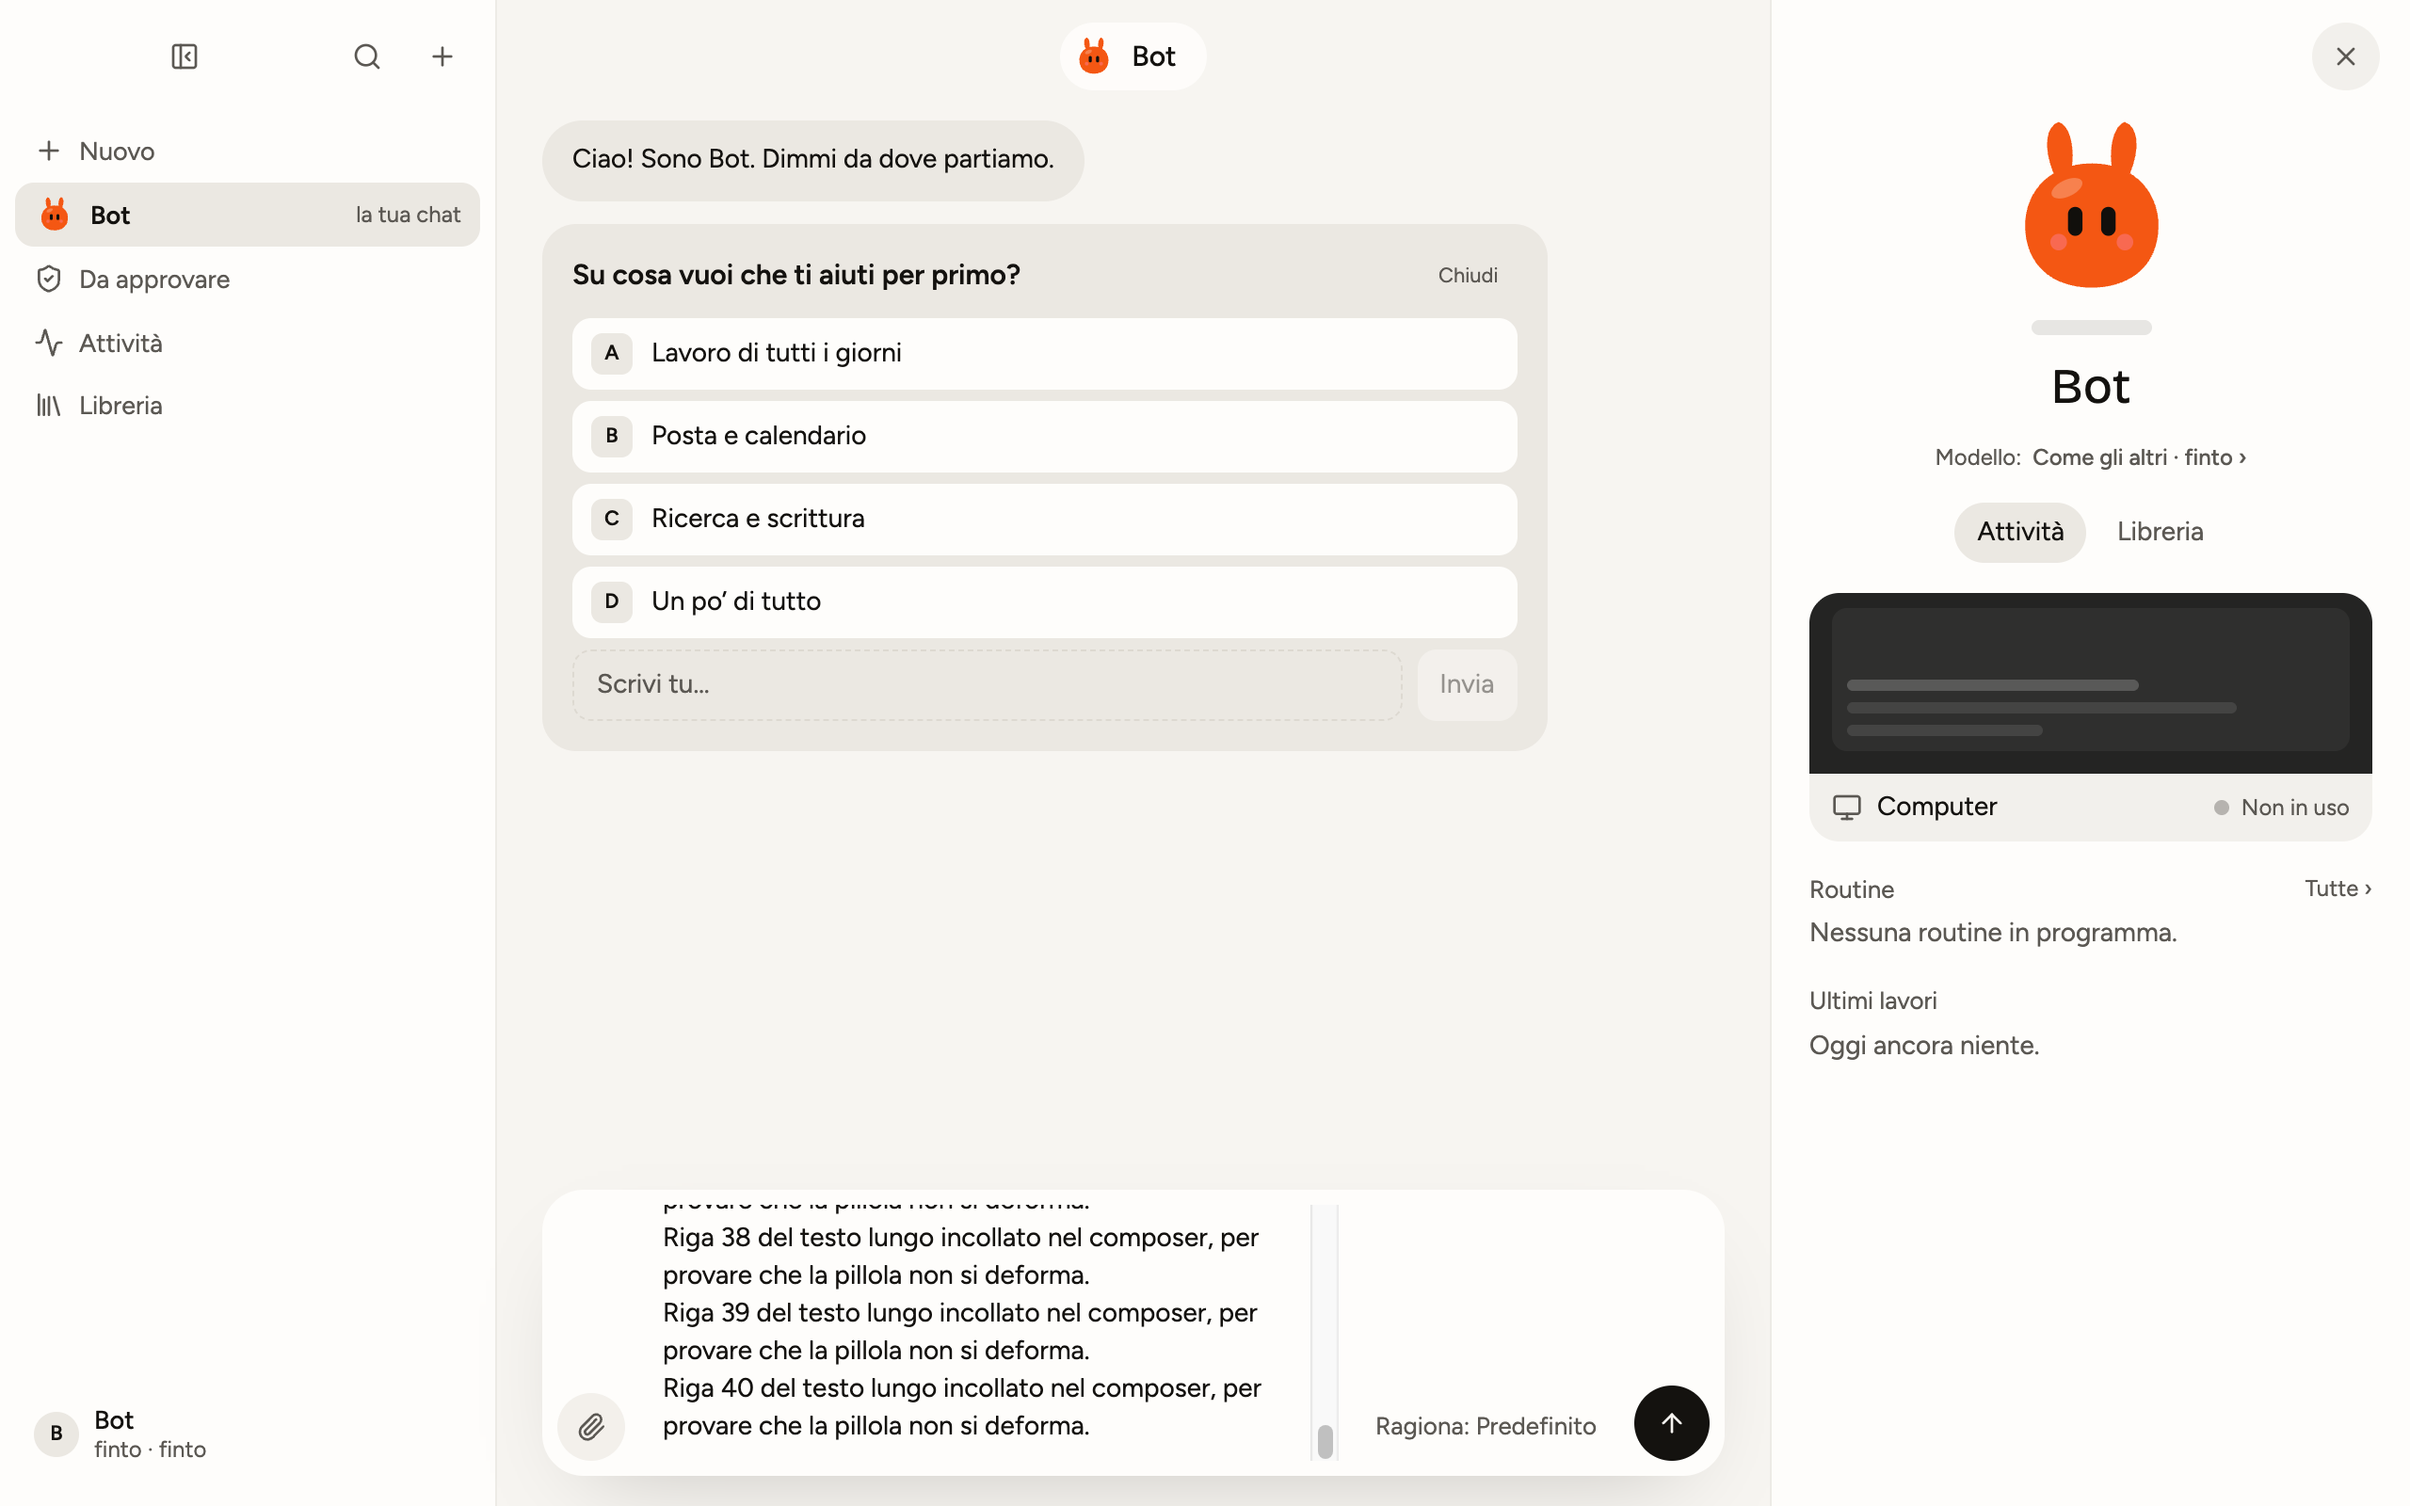
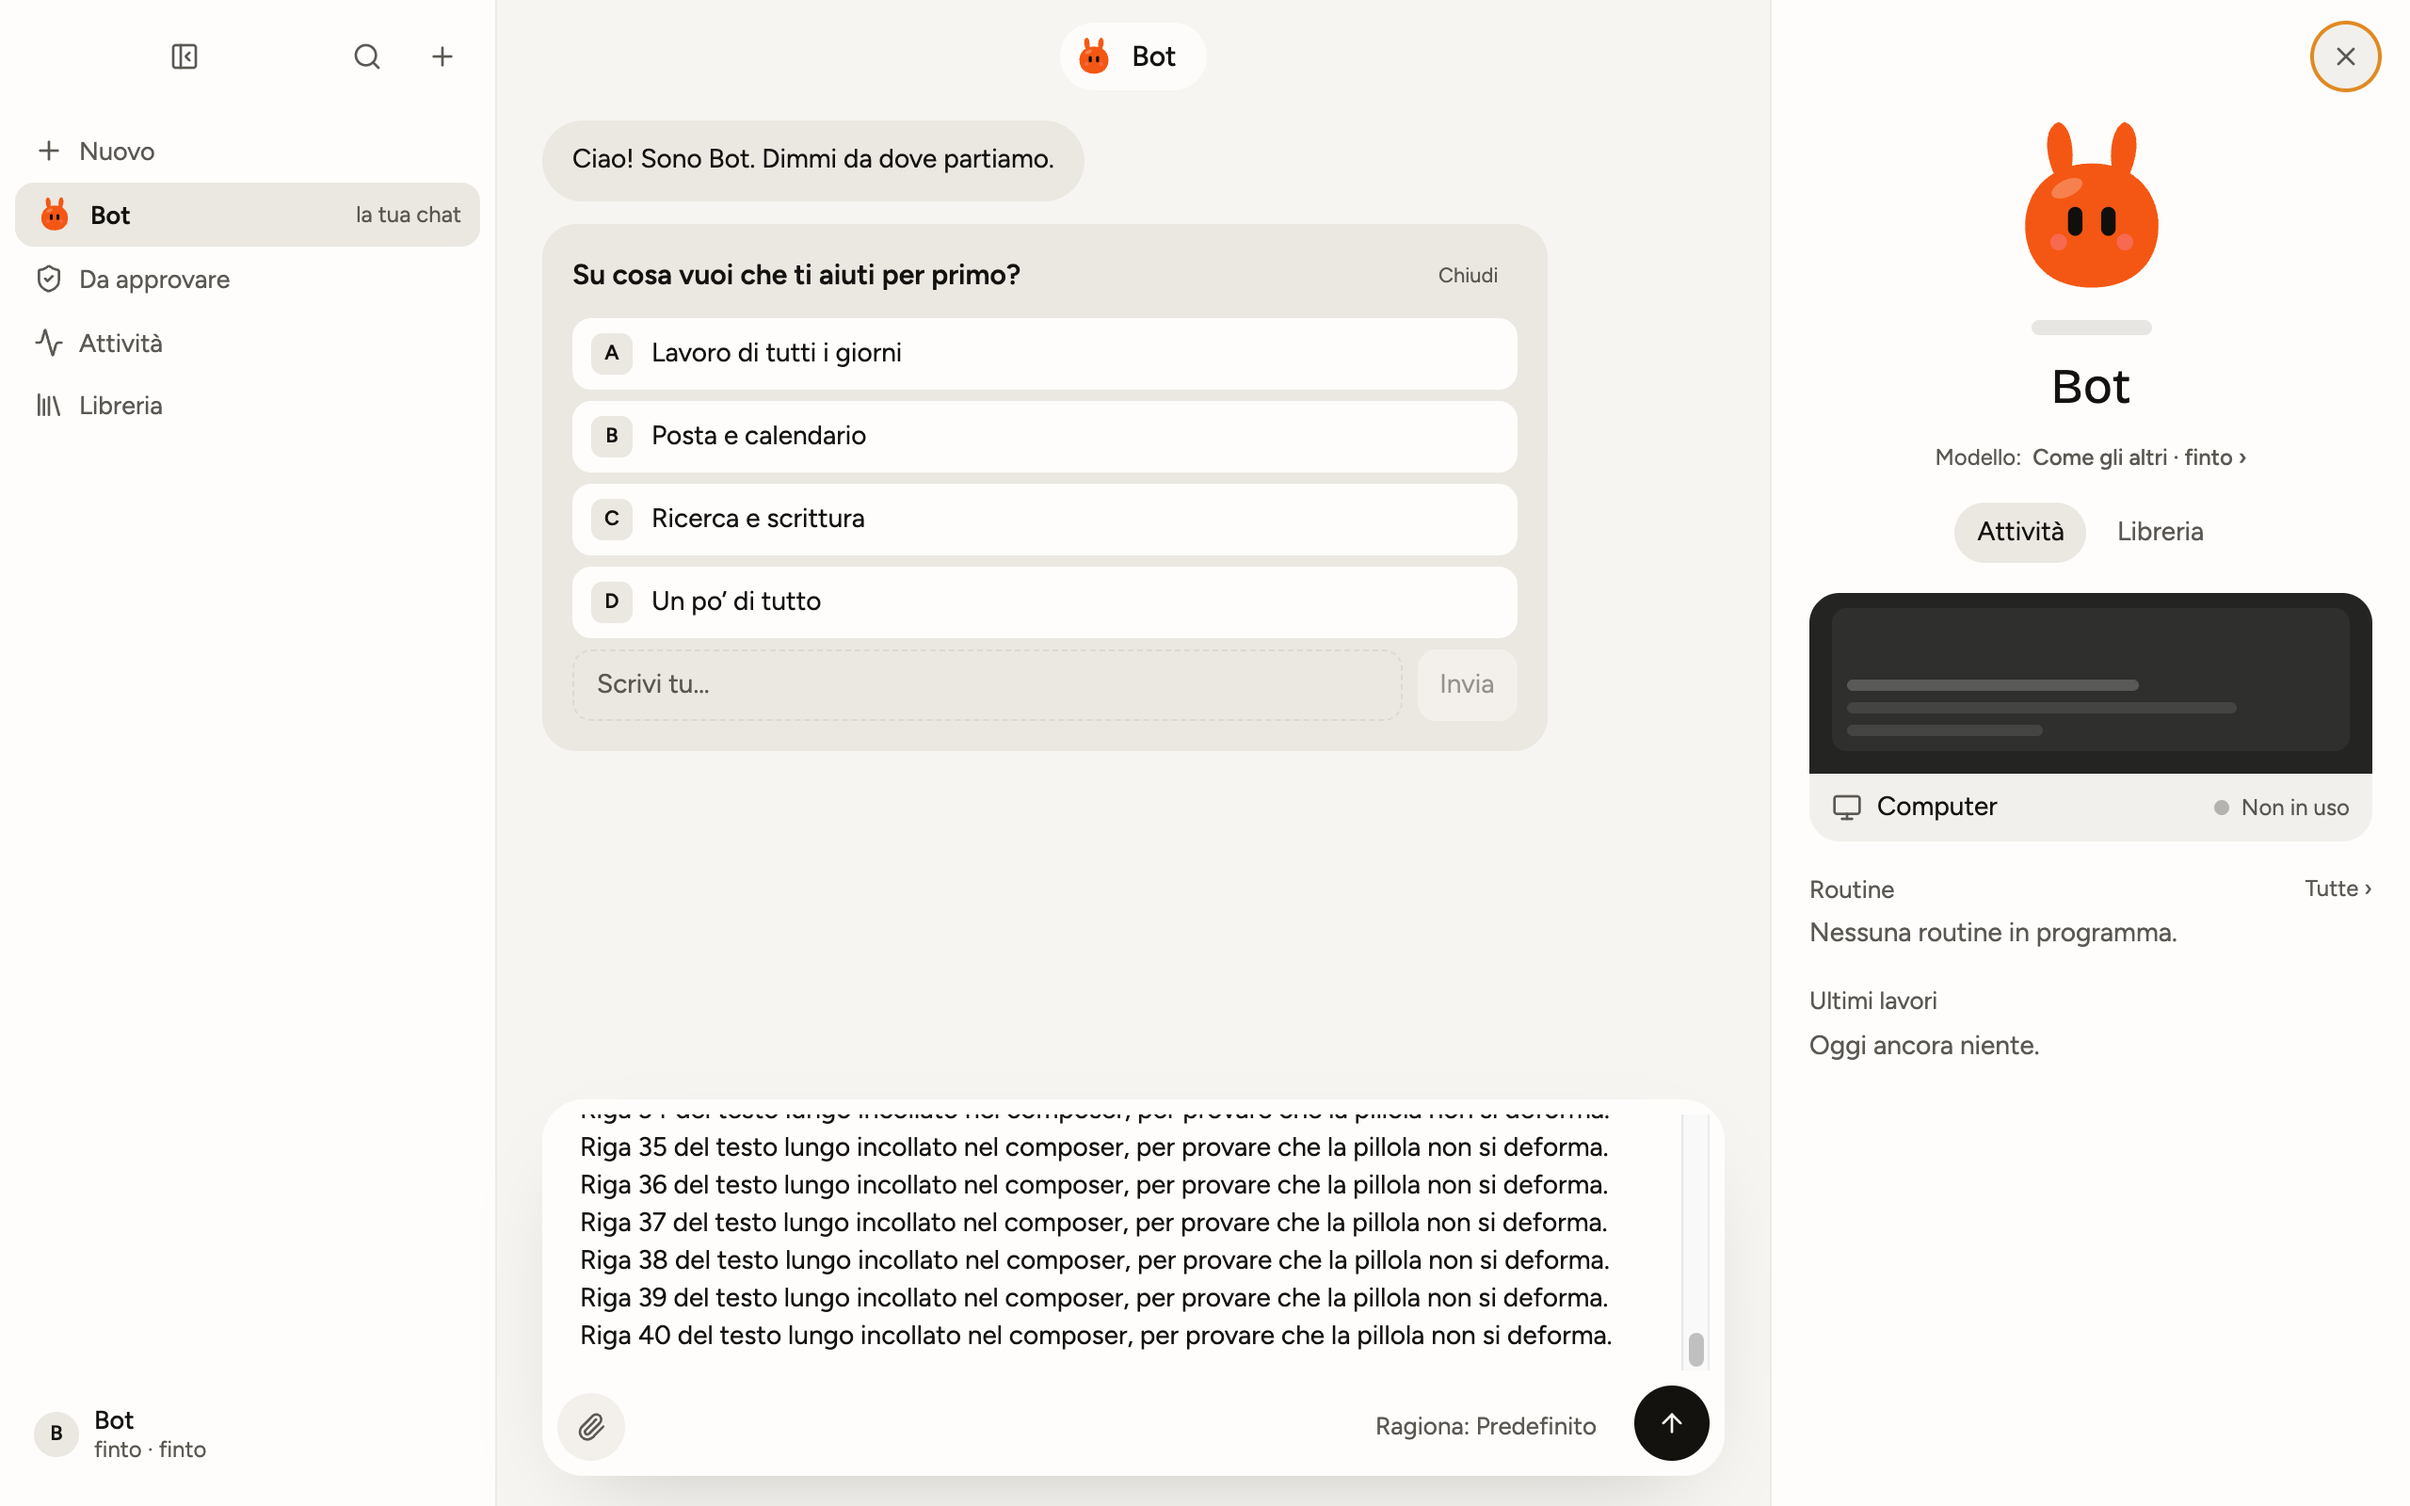
Composer a più righe: testo a tutta larghezza, bottoni sotto
Da due righe in su il campo va sopra a tutta larghezza e graffetta,
Ragiona e Invia scendono in una riga sotto (come ChatGPT e Claude):
prima il testo restava in una colonna stretta accanto ai bottoni.
Isteresi (nextComposerMulti) per non fare altalena quando il campo
largo fa stare di nuovo il testo su una riga. Stesso layout nella
chat di squadra. Test del layout e dell'isteresi.

Changed region(s): [[0.25, 0.75, 0.6562, 0.9688], [0.6875, 0.875, 0.7188, 0.9062], [0.5312, 0.9375, 0.5625, 0.9688]]

diff --git a/src/renderer/src/components/Chat.tsx b/src/renderer/src/components/Chat.tsx
@@ -59,7 +59,7 @@ import { narrationStatusLine } from '../../../shared/narration'
 import type { LayoutResult } from '../layout'
 import { THINKING_LABELS } from './ui/ModelPicker'
 // M1 (fase beta12-correzioni): il raggio dinamico del composer
-import { composerFormRadius, composerMultiFromMeasure, CHAT_COMPOSER_SINGLE_ROW_PX } from '../lib/composer'
+import { composerFormRadius, composerMultiFromMeasure, composerLayout, nextComposerMulti, CHAT_COMPOSER_SINGLE_ROW_PX } from '../lib/composer'
 import { DropdownMenu, DropdownMenuContent, DropdownMenuItem, DropdownMenuTrigger } from './ui/dropdown-menu'
 
 /** Il popover dei passaggi: «N passaggi · Xs» e l'elenco ✓/○ (S3.3).
@@ -336,11 +336,16 @@ export function Chat({ layout }: { layout?: LayoutResult }) {
   // diventa un riquadro arrotondato — lo decide la MISURA del textarea
   // (scrollHeight contro l'altezza della riga unica), così il testo lungo
   // che va a capo da solo conta come lo \n esplicito
-  const [multiRow, setMultiRow] = useState(false)
+  // con l'isteresi di nextComposerMulti: il campo a tutta larghezza non deve
+  // riportare indietro il layout appena il testo ci sta su una riga
+  const [multiState, setMultiState] = useState({ multi: false, enteredAt: 0 })
+  const multiRow = multiState.multi
   useEffect(() => {
     const ta = composerRef.current
-    setMultiRow(ta ? composerMultiFromMeasure(ta.scrollHeight, CHAT_COMPOSER_SINGLE_ROW_PX) : false)
+    const measured = ta ? composerMultiFromMeasure(ta.scrollHeight, CHAT_COMPOSER_SINGLE_ROW_PX) : false
+    setMultiState((prev) => nextComposerMulti(prev, text, measured))
   }, [text])
+  const layoutCls = composerLayout(multiRow)
   // fase skill (S7): le skill visibili a QUESTO bot (libreria + plugin) per
   // l'elenco `/` del compositore; il highlight della selezione.
   // K2 (fase skill ritocchi): l'elenco arriva dal RPC skills:invocable — la
@@ -654,7 +659,7 @@ export function Chat({ layout }: { layout?: LayoutResult }) {
           </p>
         )}
         <form
-          className={`mx-auto flex max-w-3xl items-end gap-2 bg-card py-2 pl-2 pr-2 shadow-soft transition-[border-radius] duration-150 ${composerFormRadius(multiRow)}`}
+          className={`mx-auto flex max-w-3xl items-end gap-2 bg-card py-2 pl-2 pr-2 shadow-soft transition-[border-radius] duration-150 ${composerFormRadius(multiRow)} ${layoutCls.form}`}
           onSubmit={(e) => { e.preventDefault(); sendNow() }}
         >
           <button
@@ -678,7 +683,7 @@ export function Chat({ layout }: { layout?: LayoutResult }) {
               Ragiona e Invia; a capo cresce verso l'alto (il form resta items-end) */}
           <textarea
             ref={composerRef}
-            className="max-h-40 min-h-9 min-w-[120px] flex-1 resize-none bg-transparent py-2 pl-3 pr-5 text-sm leading-5 outline-none placeholder:text-muted-foreground"
+            className={`max-h-40 min-h-9 min-w-[120px] flex-1 resize-none bg-transparent py-2 pl-3 pr-5 text-sm leading-5 outline-none placeholder:text-muted-foreground ${layoutCls.field}`}
             placeholder={t`Scrivi a ${agent.name}`}
             rows={Math.min(6, text.split('\n').length)}
             value={text}
@@ -722,7 +727,7 @@ export function Chat({ layout }: { layout?: LayoutResult }) {
               testo vive in aria-label e tooltip; il menu è identico */}
           <DropdownMenu onOpenChange={(open) => { if (open) clampReasonMenuSoon() }}>
             <DropdownMenuTrigger
-              className="grid h-9 shrink-0 place-items-center rounded-full px-3 text-[13px] text-muted-foreground transition hover:bg-muted hover:text-foreground"
+              className={`grid h-9 shrink-0 place-items-center rounded-full px-3 text-[13px] text-muted-foreground transition hover:bg-muted hover:text-foreground ${layoutCls.push}`}
               aria-label={t`Livello di ragionamento`}
               title={reasonLabel}
             >

diff --git a/src/renderer/src/components/TeamChat.tsx b/src/renderer/src/components/TeamChat.tsx
@@ -26,7 +26,7 @@ import { ApprovalsBannerElsewhere } from './ApprovalsBanner'
 // Q6 (fase squadra): la pagina si apre a lato anche dentro la chat di squadra
 import { PageView } from './PageView'
 // M1 (fase beta12-correzioni): il raggio dinamico del composer (come Chat)
-import { composerFormRadius, composerMultiFromMeasure, TEAM_COMPOSER_SINGLE_ROW_PX } from '../lib/composer'
+import { composerFormRadius, composerMultiFromMeasure, composerLayout, nextComposerMulti, TEAM_COMPOSER_SINGLE_ROW_PX } from '../lib/composer'
 
 /** Il testo col le @menzioni rese come pillole nel colore del bot menzionato. */
 function MentionedText({ text, members, agents, effectiveMain }: {
@@ -229,11 +229,14 @@ export function TeamChat() {
   const [text, setText] = useState('')
   // M1 (fase beta12-correzioni): come Chat — da due righe in su la pillola
   // diventa un riquadro arrotondato, deciso dalla misura del textarea
-  const [multiRow, setMultiRow] = useState(false)
+  const [multiState, setMultiState] = useState({ multi: false, enteredAt: 0 })
+  const multiRow = multiState.multi
   useEffect(() => {
     const ta = taRef.current
-    setMultiRow(ta ? composerMultiFromMeasure(ta.scrollHeight, TEAM_COMPOSER_SINGLE_ROW_PX) : false)
+    const measured = ta ? composerMultiFromMeasure(ta.scrollHeight, TEAM_COMPOSER_SINGLE_ROW_PX) : false
+    setMultiState((prev) => nextComposerMulti(prev, text, measured))
   }, [text])
+  const layoutCls = composerLayout(multiRow)
   const [mentionIdx, setMentionIdx] = useState(0)
   const scrollRef = useRef<HTMLDivElement>(null)
   const taRef = useRef<HTMLTextAreaElement>(null)
@@ -431,12 +434,12 @@ export function TeamChat() {
             </div>
           )}
           <form
-            className={`flex items-end gap-2 bg-card py-2 pl-5 pr-2 shadow-soft transition-[border-radius] duration-150 ${composerFormRadius(multiRow)}`}
+            className={`flex items-end gap-2 bg-card py-2 pl-5 pr-2 shadow-soft transition-[border-radius] duration-150 ${composerFormRadius(multiRow)} ${layoutCls.form}`}
             onSubmit={(e) => { e.preventDefault(); sendNow() }}
           >
             <textarea
               ref={taRef}
-              className="max-h-40 min-h-11 min-w-[120px] flex-1 resize-none bg-transparent py-2.5 pr-5 text-sm outline-none placeholder:text-muted-foreground"
+              className={`max-h-40 min-h-11 min-w-[120px] flex-1 resize-none bg-transparent py-2.5 pr-5 text-sm outline-none placeholder:text-muted-foreground ${layoutCls.field}`}
               placeholder={placeholder}
               rows={Math.min(4, text.split('\n').length)}
               value={text}
@@ -457,7 +460,7 @@ export function TeamChat() {
             />
             <button
               type="submit"
-              className="grid size-10 shrink-0 place-items-center rounded-full bg-foreground text-background transition hover:opacity-90 disabled:opacity-40"
+              className={`grid size-10 shrink-0 place-items-center rounded-full bg-foreground text-background transition hover:opacity-90 disabled:opacity-40 ${layoutCls.push}`}
               aria-label={t`Invia`}
               title={t`Invia`}
               disabled={!text.trim()}

diff --git a/src/renderer/src/__tests__/composer-raggio.test.ts b/src/renderer/src/__tests__/composer-raggio.test.ts
@@ -106,3 +106,31 @@ describe('M1: TeamChat.tsx allineato allo stesso comportamento', () => {
     expect(Number(m![1])).toBeLessThanOrEqual(150)
   })
 })
+
+// Passata di design (beta.13): da due righe il campo va a tutta larghezza e i
+// bottoni scendono sotto; l'isteresi evita l'altalena al limite della riga.
+import { nextComposerMulti, composerLayout } from '../lib/composer'
+
+describe('composer a più righe: layout e isteresi', () => {
+  it('a una riga nessuna classe; a più righe campo sopra a tutta larghezza e bottoni sotto', () => {
+    expect(composerLayout(false)).toEqual({ form: '', field: '', push: '' })
+    expect(composerLayout(true)).toEqual({ form: 'flex-wrap', field: 'order-first basis-full', push: 'ml-auto' })
+  })
+  it('entra in «più righe» con la misura o con un a capo, e ricorda la lunghezza', () => {
+    const zero = { multi: false, enteredAt: 0 }
+    expect(nextComposerMulti(zero, 'ciao', false)).toEqual(zero)
+    expect(nextComposerMulti(zero, 'a'.repeat(80), true)).toEqual({ multi: true, enteredAt: 80 })
+    expect(nextComposerMulti(zero, 'riga 1\nriga 2', false).multi).toBe(true)
+  })
+  it('non torna indietro appena il campo largo fa stare il testo su una riga (niente altalena)', () => {
+    const multi = { multi: true, enteredAt: 80 }
+    expect(nextComposerMulti(multi, 'a'.repeat(80), false)).toEqual(multi)
+    expect(nextComposerMulti(multi, 'a'.repeat(75), false)).toEqual(multi)
+  })
+  it('torna a una riga quando il testo si accorcia davvero, o si svuota', () => {
+    const multi = { multi: true, enteredAt: 80 }
+    expect(nextComposerMulti(multi, 'a'.repeat(60), false)).toEqual({ multi: false, enteredAt: 0 })
+    expect(nextComposerMulti(multi, '', false)).toEqual({ multi: false, enteredAt: 0 })
+    expect(nextComposerMulti(multi, 'riga\nriga', false)).toEqual(multi)
+  })
+})

diff --git a/src/renderer/src/lib/composer.ts b/src/renderer/src/lib/composer.ts
@@ -25,3 +25,30 @@ export function composerFormRadius(multiRow: boolean): string {
 export function composerMultiFromMeasure(scrollHeight: number, singleRowHeight: number): boolean {
   return scrollHeight > singleRowHeight + 2
 }
+
+/**
+ * Lo stato «più righe» con ISTERESI: da due righe in su il campo va a tutta
+ * larghezza e i bottoni scendono sotto — e un campo più largo può far stare
+ * di nuovo il testo su una riga. Senza margine si avrebbe un'altalena. Si
+ * torna a una riga solo senza a capo e con il testo sotto il 90% della
+ * lunghezza a cui era diventato «più righe» (o vuoto).
+ */
+export function nextComposerMulti(
+  prev: { multi: boolean; enteredAt: number },
+  text: string,
+  measuredMulti: boolean
+): { multi: boolean; enteredAt: number } {
+  if (!prev.multi) {
+    return measuredMulti || text.includes('\n') ? { multi: true, enteredAt: text.length } : prev
+  }
+  if (text.length === 0) return { multi: false, enteredAt: 0 }
+  if (!text.includes('\n') && !measuredMulti && text.length < prev.enteredAt * 0.9) return { multi: false, enteredAt: 0 }
+  return prev
+}
+
+/** Le classi del layout a più righe: il campo sopra a tutta larghezza, i bottoni sotto. */
+export function composerLayout(multiRow: boolean): { form: string; field: string; push: string } {
+  return multiRow
+    ? { form: 'flex-wrap', field: 'order-first basis-full', push: 'ml-auto' }
+    : { form: '', field: '', push: '' }
+}
